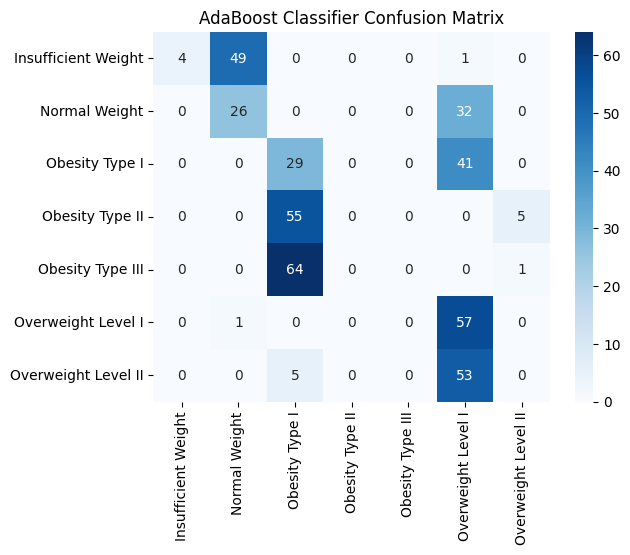
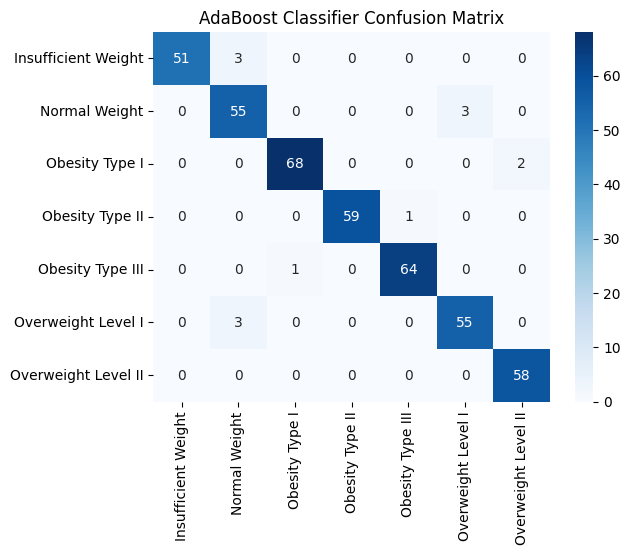
classification

diff --git a/classification/classification.py b/classification/classification.py
@@ -9,10 +9,10 @@ from xgboost import XGBClassifier
 from sklearn.svm import SVC
 from sklearn.linear_model import LogisticRegression
 from sklearn.metrics import accuracy_score, confusion_matrix, classification_report
-from sklearn import preprocessing
 import collections
+import time
 
-
+# Data
 file = '../data/obesity_dataset_clean.csv'
 obesity = pd.read_csv(file)
 obesity = obesity.iloc[:, 1:]
@@ -24,6 +24,8 @@ obesity['Nutritional Status'] \
 
 output_file_path = '../classification/result.txt'
 
+
+# Data encoding
 lb = LabelEncoder()
 
 obesity['Gender'] = lb.fit_transform(obesity['Gender'])
@@ -31,14 +33,15 @@ obesity['Transportation Used'] = lb.fit_transform(obesity['Transportation Used']
 label_names = obesity['Nutritional Status'].unique()
 obesity['Nutritional Status'] = lb.fit_transform(obesity['Nutritional Status'])
 
-
 label_dict = dict(zip(list(obesity['Nutritional Status'].unique()), list(label_names)))
 label_dict_ordered = dict(collections.OrderedDict(sorted(label_dict.items())))
 
 
+# Train-Test split
 X = obesity.drop(['Nutritional Status'], axis=1)
 Y = obesity['Nutritional Status']
 X_train, X_test, y_train, y_test = train_test_split(X, Y, test_size=0.2, stratify=Y, random_state=13)
+
 
 
 def save_confusion_matrix(y_test, y_pred, file_name, title):
@@ -50,8 +53,7 @@ def save_confusion_matrix(y_test, y_pred, file_name, title):
     plt.show()
 
 
-
-# scaler = preprocessing.StandardScaler().fit(X_train)
+# Models
 
 def decision_tree():
     # Decision Tree Classifier
@@ -59,7 +61,9 @@ def decision_tree():
     decision_tree.fit(X_train, y_train)
     y_pred_dt = decision_tree.predict(X_test)
     save_confusion_matrix(y_test, y_pred_dt, 'DecisionTree.png', 'Decision Tree Classifier')
-    return y_pred_dt
+    dt_dict = dict(zip(decision_tree.feature_names_in_, decision_tree.feature_importances_))
+    return y_pred_dt, dt_dict
+
 
 def random_forest():
     # Random Forest Classifier
@@ -67,7 +71,9 @@ def random_forest():
     RForest.fit(X_train, y_train)
     y_pred_rf = RForest.predict(X_test)
     save_confusion_matrix(y_test, y_pred_rf, 'RandomForest.png', 'Random Forest Classifier')
-    return y_pred_rf
+    rf_dict = dict(zip(RForest.feature_names_in_, RForest.feature_importances_))
+    return y_pred_rf, rf_dict
+
 
 def SVC_nogs():
     # Support Vector Machine Classifier without GridSearch
@@ -75,14 +81,18 @@ def SVC_nogs():
     svc.fit(X_train, y_train)
     y_pred_svc = svc.predict(X_test)
     save_confusion_matrix(y_test, y_pred_svc, 'SVC.png', 'Support Vector Machine Classifier without GridSearch')
-    return y_pred_svc
+    SVM_ngs = dict(zip(svc.feature_names_in_, svc.feature_importances_))
+    return y_pred_svc, SVM_ngs
+
+
 
 def SVC_gs():
     # Support Vector Machine Classifier with GRID
     param_grid_svc = {'C': [0.1, 1, 10, 100, 1000],
-                  'gamma': [1, 0.1, 0.01, 0.001, 0.0001, 'auto'],
-                  'class_weight': ['balanced', 'None'],
-                  'kernel': ['rbf', 'linear', 'poly']}
+                      'gamma': [1, 0.1, 0.01, 0.001, 0.0001, 'auto'],
+                      'class_weight': ['balanced', 'None'],
+                      'kernel': ['rbf', 'linear', 'poly']}
+
     grid_svc = GridSearchCV(SVC(), param_grid_svc, refit=True, verbose=3)
     grid_svc.fit(X_train, y_train)
     best_params_svc = str(grid_svc.best_params_)
@@ -90,13 +100,25 @@ def SVC_gs():
     save_confusion_matrix(y_test, y_pred_grid_svc, 'SVC_gs.png', 'Support Vector Machine Classifier with GridSearch')
     return y_pred_grid_svc, best_params_svc
 
+
 def logistic_regression():
     # Logistic Regression Classifier
-    logistic_regression = LogisticRegression(max_iter=100, random_state=42)
-    logistic_regression.fit(X_train, y_train)
-    y_pred_lr = logistic_regression.predict(X_test)
+    logistic_regression = LogisticRegression()
+
+    parameters = [{'penalty': ['l2', 'none']},
+                  {'C': [1, 10, 100, 1000]},
+                  {'max_iter': [100, 150, 200]},
+                  {'solver': ['lbfgs', 'liblinear', 'newton-cg', 'newton-cholesky', 'sag', 'saga']}]
+    grid_lr = GridSearchCV(estimator=logistic_regression,
+                               param_grid=parameters,
+                               scoring='accuracy',
+                               verbose=3)
+    grid_lr.fit(X_train, y_train)
+    y_pred_lr = grid_lr.predict(X_test)
+    print(accuracy_score(y_test,y_pred_lr))
+    best_params = str(grid_lr.best_params_)
     save_confusion_matrix(y_test, y_pred_lr, 'LogisticRegression.png', 'Logistic Regression Classifier')
-    return y_pred_lr
+    return y_pred_lr, best_params
 
 
 def XGboost():
@@ -105,15 +127,26 @@ def XGboost():
     xgb.fit(X_train, y_train)
     y_pred_xgb = xgb.predict(X_test)
     save_confusion_matrix(y_test, y_pred_xgb, 'XGBoost.png', 'XGBoost Classifier')
-    return y_pred_xgb
+    XGboost = dict(zip(xgb.feature_names_in_, xgb.feature_importances_))
+    return y_pred_xgb, XGboost
+
 
 def AdaBoost():
     # AdaBoost Classifier
-    adaboost = AdaBoostClassifier(n_estimators=100, random_state=42)
-    adaboost.fit(X_train, y_train)
-    y_pred_ab = adaboost.predict(X_test)
+    parameters = {
+        'estimator__criterion': ['gini', 'entropy'],
+        'estimator__max_depth': [1, 5, 9],
+        'learning_rate': [0.01, 0.1, 0.5, 1],
+    }
+    dtc = DecisionTreeClassifier()
+    adaboost = AdaBoostClassifier(estimator=dtc, n_estimators=100, random_state=6)
+    gs = GridSearchCV(adaboost, param_grid=parameters, refit=True, verbose=3)
+    gs.fit(X_train, y_train)
+    y_pred_ab = gs.predict(X_test)
     save_confusion_matrix(y_test, y_pred_ab, 'AdaBoost.png', 'AdaBoost Classifier')
-    return y_pred_ab
+    ada = dict(zip(gs.best_estimator_.feature_names_in_, gs.best_estimator_.feature_importances_))
+    return y_pred_ab, ada
+
 
 def GradientBoosting():
     # Gradient Boosting Classifier
@@ -121,17 +154,116 @@ def GradientBoosting():
     gradient_boost.fit(X_train, y_train)
     y_pred_gb = gradient_boost.predict(X_test)
     save_confusion_matrix(y_test, y_pred_gb, 'GradientBoosting.png', 'Gradient Boosting Classifier')
-    return y_pred_gb
+    gradient = dict(zip(gradient_boost.feature_names_in_, gradient_boost.feature_importances_))
+    return y_pred_gb, gradient
 
-y_pred_dt = decision_tree()
-y_pred_rf = random_forest()
-y_pred_svc = SVC_nogs()
+
+
+# Overfitting and Time complexity
+def decision_tree_overfitting():
+    train_scores = []
+    test_scores = []
+    values = [i for i in range(1, 21)]
+    # Decision Tree Classifier
+    for i in values:
+        decision_tree = DecisionTreeClassifier(max_depth=i)
+        decision_tree.fit(X_train, y_train)
+        train_eval = decision_tree.predict(X_train)
+        train_acc = accuracy_score(y_train, train_eval)
+        train_scores.append(train_acc)
+        y_pred_dt = decision_tree.predict(X_test)
+        test_acc = accuracy_score(y_test, y_pred_dt)
+        test_scores.append(test_acc)
+        save_confusion_matrix(y_test, y_pred_dt, 'DecisionTree.png', 'Decision Tree Classifier')
+
+    plt.plot(values, train_scores, '-o', label='Train')
+    plt.plot(values, test_scores, '-o', label='Test')
+    plt.legend()
+    plt.show()
+    return y_pred_dt
+
+
+def random_forest_timecomplexity():
+    train_scores = []
+    test_scores = []
+    values = [i for i in range(1, 51)]
+    times = []
+    # Random Forest Classifier
+    for i in values:
+        RForest = RandomForestClassifier(n_estimators=100, random_state=42, max_depth=i)
+        start = time.time()
+        RForest.fit(X_train, y_train)
+        train_eval = RForest.predict(X_train)
+        train_acc = accuracy_score(y_train, train_eval)
+        train_scores.append(train_acc)
+        y_pred_rf = RForest.predict(X_test)
+        test_acc = accuracy_score(y_test, y_pred_rf)
+        test_scores.append(test_acc)
+        end = time.time()
+        times.append(end - start)
+        # save_confusion_matrix(y_test, y_pred_rf, 'RandomForest.png', 'Random Forest Classifier')
+    plt.subplot(1, 2, 1)
+    plt.plot(values, train_scores, '-o', label='Train')
+    plt.plot(values, test_scores, '-o', label='Test')
+    plt.legend()
+    plt.subplot(1, 2, 2)
+    plt.plot(values, times, '-o', label='Time taken')
+    plt.show()
+
+    return y_pred_rf
+
+
+# save confusion matrix
+
+y_pred_dt, dt_dict = decision_tree()
+y_pred_rf, rf_dict = random_forest()
 y_pred_grid_svc, optimal_svc = SVC_gs()
-y_pred_lr = logistic_regression()
-y_pred_xgb = XGboost()
-y_pred_ab = AdaBoost()
-y_pred_gb = GradientBoosting()
+y_pred_svc = SVC_nogs()
+y_pred_lr, optimal_lr = logistic_regression()
+y_pred_xgb, xg_dict = XGboost()
+y_pred_ab, ab_dict = AdaBoost()
+y_pred_gb, gb_dict = GradientBoosting()
 
+
+# heatmap feature importances
+
+d = {'Random Forest': pd.Series(rf_dict.values(),
+                                index=rf_dict.keys()),
+     'Decision Tree': pd.Series(dt_dict.values(),
+                                index=dt_dict.keys()),
+     'Ada Boost': pd.Series(ab_dict.values(),
+                            index=ab_dict.keys()),
+     'Gradient Boosting': pd.Series(gb_dict.values(),
+                                    index=gb_dict.keys()),
+     'XGBoost': pd.Series(xg_dict.values(),
+                          index=xg_dict.keys())
+     }
+
+feature_importance = pd.DataFrame(d)
+sns.heatmap(feature_importance, cmap="crest")
+plt.show()
+
+
+# comparisons
+fig, ax = plt.subplots(figsize=(11, 3))
+
+# vedere area
+ax = sns.lineplot(x=y_test, y=y_pred_xgb,
+                  label='XGBoost')
+ax1 = sns.lineplot(x=y_test, y=y_pred_gb,
+                   label='GradientBoosting')
+ax2 = sns.lineplot(x=y_test, y=y_pred_ab,
+                   label='AdaBoost')
+
+ax.set_xlabel('y_test', color='g')
+ax.set_ylabel('y_pred', color='g')
+
+plt.show()
+
+
+# time complexity and overfitting
+#random_forest_timecomplexity()
+#decision_tree_overfitting()
 
 
 # Writing result in output file
@@ -158,3 +290,5 @@ with open(output_file_path, 'w') as f:
 
     f.write('\n<------------------------------ Optimal Parameters for Grid Search ------------------------------->\n\n')
     f.write(f'Support Vector Machine Classifier with GridSearch: {optimal_svc}\n')
+    f.write(f'Logistic Regression Classifier with GridSearch: {optimal_lr}\n')
+

diff --git a/classification/svm.py b/classification/svm.py
@@ -1,0 +1,29 @@
+import pandas as pd
+import matplotlib.pyplot as plt
+import seaborn as sns
+from sklearn.model_selection import train_test_split, cross_val_score, GridSearchCV, StratifiedKFold
+from sklearn.naive_bayes import GaussianNB
+from sklearn.preprocessing import LabelEncoder, MinMaxScaler
+from sklearn.ensemble import RandomForestClassifier, AdaBoostClassifier
+from xgboost import XGBClassifier
+from sklearn.svm import SVC
+from sklearn.linear_model import LogisticRegression
+from sklearn.metrics import accuracy_score, confusion_matrix, classification_report
+from sklearn import preprocessing
+import collections
+import warnings
+
+
+
+
+
+
+
+
+
+
+conf_matrix_nb = confusion_matrix(y_test, y_pred_grid_svc)
+sns.heatmap(conf_matrix_nb, annot=True, fmt='d', cmap='Blues', xticklabels=list(label_dict_ordered.values()),
+            yticklabels=list(label_dict_ordered.values()))
+
+plt.show()
